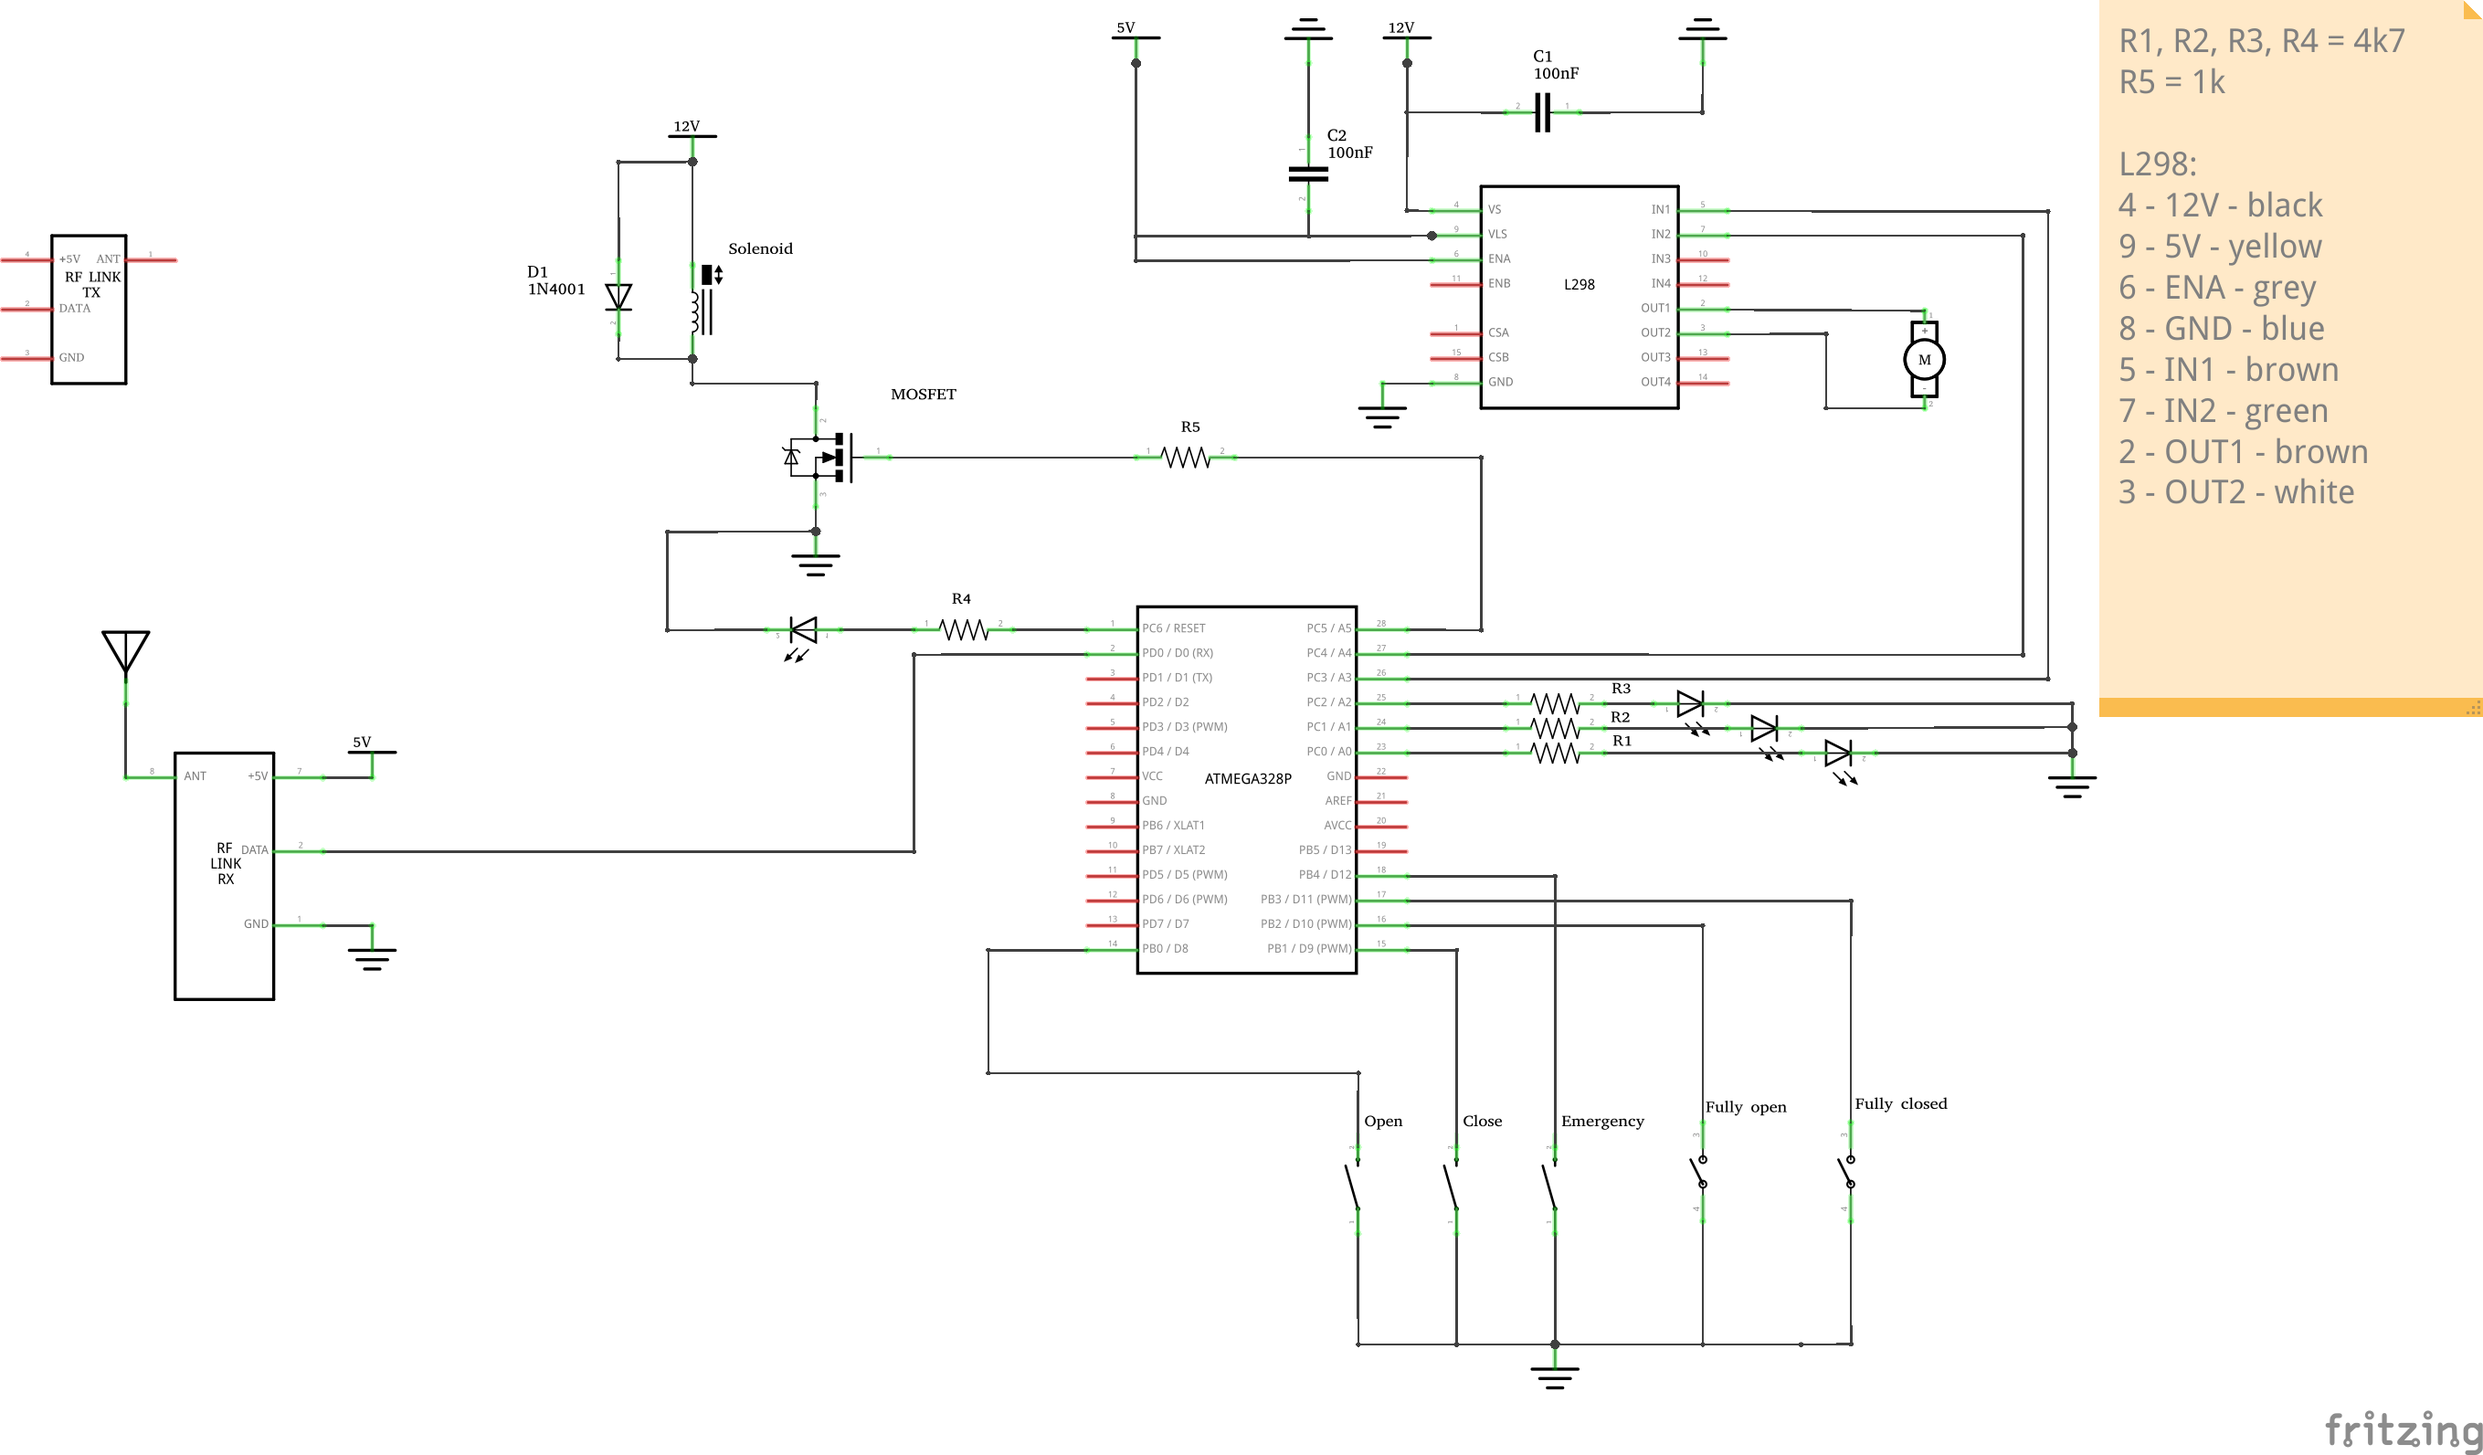
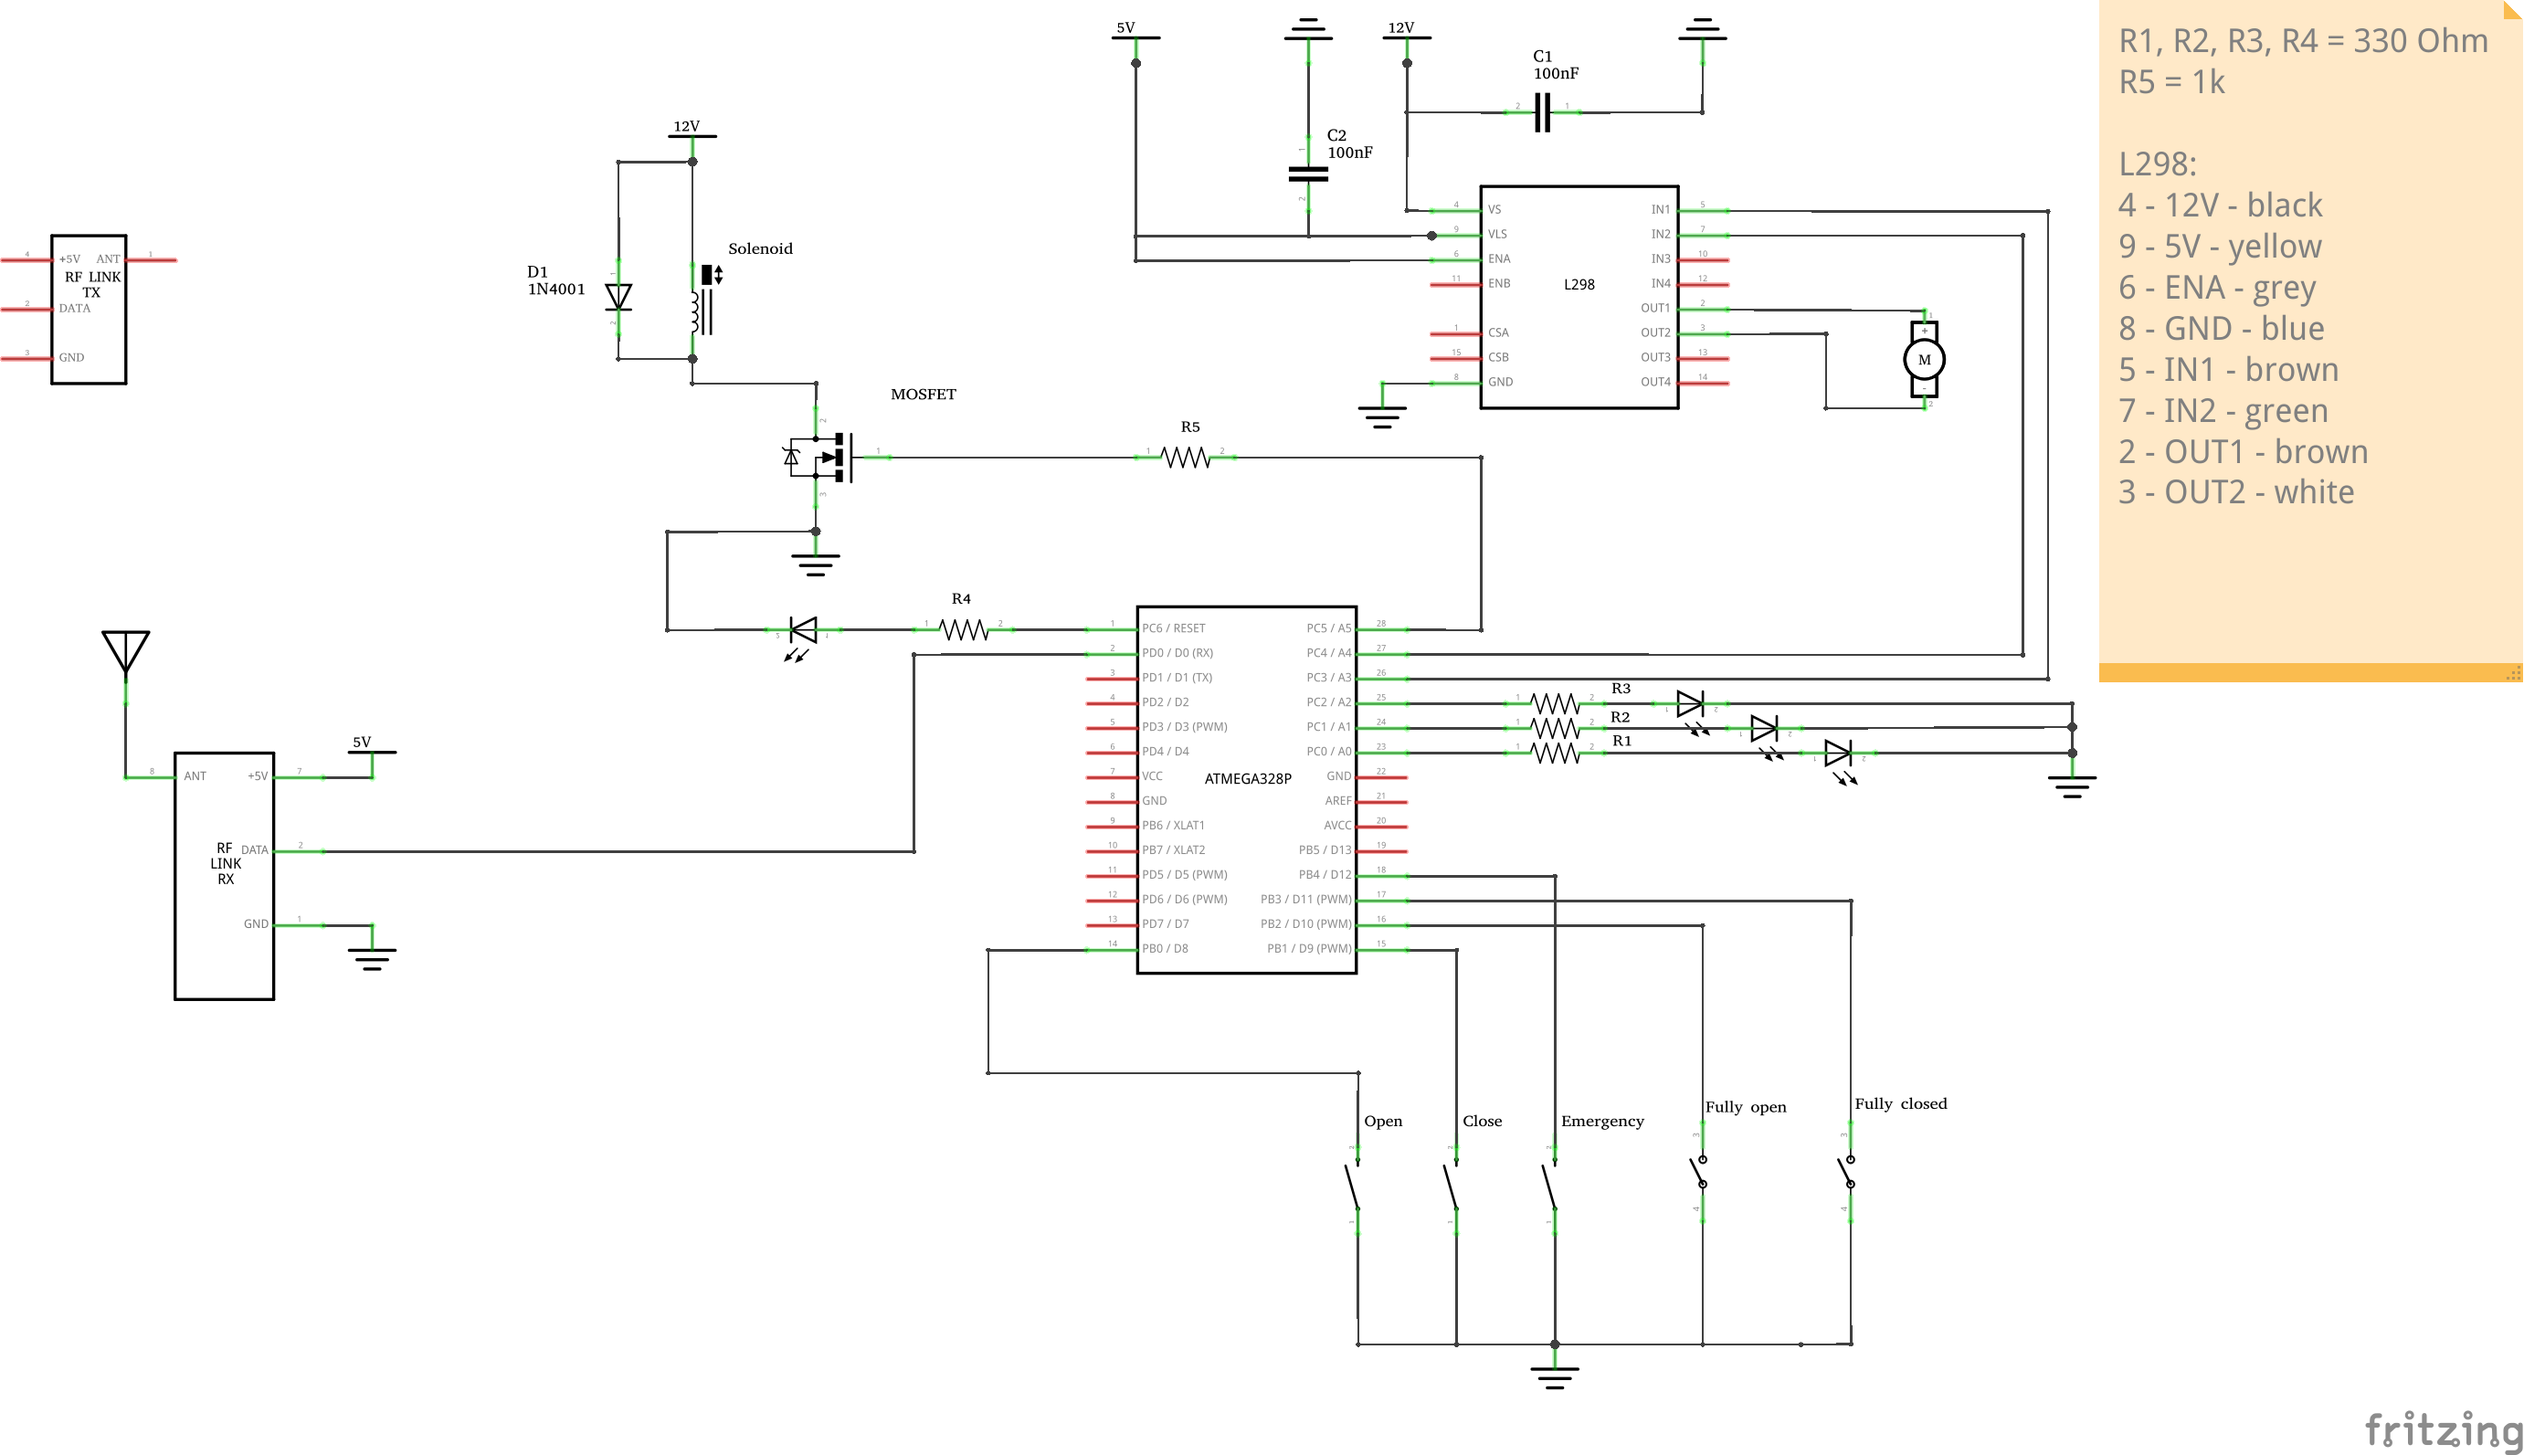
main.c comment schematics resistor values corrected

diff --git a/AtmelStudio/Drafts/StateMachineGarageDoor/StateMachineGarageDoor/main.c b/AtmelStudio/Drafts/StateMachineGarageDoor/StateMachineGarageDoor/main.c
@@ -5,18 +5,19 @@
  * Author : rludvik
  * Version: 0.1
  
-Simple schematics:
+Simple schematic. Left here just for fun.
+For the full schematic see the schematics_schem.png
 
                        _____________
                       | ATmega328p  |
               _       |             |
- GND -------. | .---> | PB0     PC0 | ----> 4k7 --- Green LED (open)
+ GND -------. | .---> | PB0     PC0 | ----> 330 Ohms --- Green LED (open)
               _       |             |
- GND -------. | .---> | PB1     PC1 | ----> 4k7 --- White LED (close)
+ GND -------. | .---> | PB1     PC1 | ----> 330 Ohms --- White LED (close)
                       |             | 
-                      |         PC2 | ----> 4k7 --- Red LED (alarm)
+                      |         PC2 | ----> 330 Ohms --- Red LED (alarm)
                       |             | 					  
-                      |         PC6 | ----> 4k7 --- Blue LED (RF)				  
+                      |         PC6 | ----> 330 Ohms --- Blue LED (RF)				  
  GND -------./ .----> | PB2         |
                       |         PC3 | ----> Motor IN1
  GND -------./ .----> | PB3     PC4 | ----> Motor IN2
@@ -36,7 +37,7 @@ Timer calculator: https://www.ee-diary.com/2021/07/programming-atmega328p-in-ctc
 #include <avr/io.h>
 #include <avr/interrupt.h>
 #include <stdbool.h>
-#include <util/delay.h>
+//#include <util/delay.h>
 #include "settings.h"
 
 /* Variables list:
@@ -191,16 +192,14 @@ int main(void) {
 				/* If the Open button was pressed */
 				if ((!(INPUT_PIN & (1 << OPEN_BTN_PIN))) & (cntOpenButton > chkLimit)) {
 					OUTPUT_PORT &= ~(1 << CLOSE_LED_PIN);
-					//unlock_solenoid();
-					//bob motorOpen();
-					/* Start a timer for TIMER0_COMPB_vect ??? TBC*/
 					restartTimer();
 					state = OPENING;
 				}
 				break;
 			case OPENING:
-				unlock_solenoid();
+				unlock_solenoid();			/* This also Enables Output Compare Match B Interrupt */
 				motorOpen();
+				
 				/* If the timeout appears, interrupt will handle it */
 				
 				/* Right now just turn on both LEDs (opening + closing) to get a visual signal */
@@ -210,7 +209,6 @@ int main(void) {
 												
 				/* If the Emergency button was pressed */
 				if ((!(INPUT_PIN & (1 << EMERGENCY_BTN_PIN))) & (cntEmergencyButton > chkLimit)) {
-					//bob motorStop();
 					restartTimer();
 					state = ALARM;
 				}
@@ -218,7 +216,6 @@ int main(void) {
 				/* If the Close button was pressed, change state to CLOSING */
 				if ((!(INPUT_PIN & (1 << CLOSE_BTN_PIN))) & (cntCloseButton > chkLimit)) {
 					restartTimer();
-					//bob motorClose();
 					state = CLOSING;
 				}
 				
@@ -249,7 +246,6 @@ int main(void) {
 				/* If the Close button was pressed */
 				if ((!(INPUT_PIN & (1 << CLOSE_BTN_PIN))) & (cntCloseButton > chkLimit)) {
 					OUTPUT_PORT &= ~(1 << OPEN_LED_PIN);
-					//bob motorClose();
 					restartTimer();
 					state = CLOSING;
 				}
@@ -270,7 +266,7 @@ int main(void) {
 			 *	+ go to the CLOSED state
 			 */				
 			case CLOSING:
-				motorClose(); //bob
+				motorClose();
 				/* If the timeout appears, interrupt will handle it */
 				
 				/* Right now just turn on both LEDs (opening + closing) to get a visual signal */
@@ -280,7 +276,6 @@ int main(void) {
 												
 				/* If the Emergency button was pressed */
 				if ((!(INPUT_PIN & (1 << EMERGENCY_BTN_PIN))) & (cntEmergencyButton > chkLimit)) {
-					//bob motorStop();
 					stopTimer();
 					state = ALARM;
 				}
@@ -288,7 +283,6 @@ int main(void) {
 				/* If the Open button was pressed, change state to OPENING */
 				if ((!(INPUT_PIN & (1 << OPEN_BTN_PIN))) & (cntOpenButton > chkLimit)) {
 					restartTimer();
-					//bob motorOpen();
 					state = OPENING;
 				}
 				
@@ -320,14 +314,11 @@ int main(void) {
 				OUTPUT_PORT |= (1 << ALARM_LED_PIN);
 				OUTPUT_PORT &= ~(1 << OPEN_LED_PIN);
 				OUTPUT_PORT &= ~(1 << CLOSE_LED_PIN);
-				motorStop(); //bob
+				motorStop();
 				
 				/* If the Close button was pressed */
 				if ((!(INPUT_PIN & (1 << CLOSE_BTN_PIN))) & (cntCloseButton > chkLimit)) {
 					OUTPUT_PORT &= ~(1 << ALARM_LED_PIN);
-					//bob motorClose();
-					//extraTime = 0;
-					//alarmextraTime = 0;
 					restartTimer();
 					state = CLOSING;
 				}
@@ -335,10 +326,7 @@ int main(void) {
 				/* If the Open button was pressed */
 				if ((!(INPUT_PIN & (1 << OPEN_BTN_PIN))) & (cntOpenButton > chkLimit)) {	
 					OUTPUT_PORT &= ~(1 << ALARM_LED_PIN);
-					//bob motorOpen();
 					restartTimer();
-					//extraTime = 0;
-					//alarmextraTime = 0;
 					state = OPENING;
 				}
 				break;			
